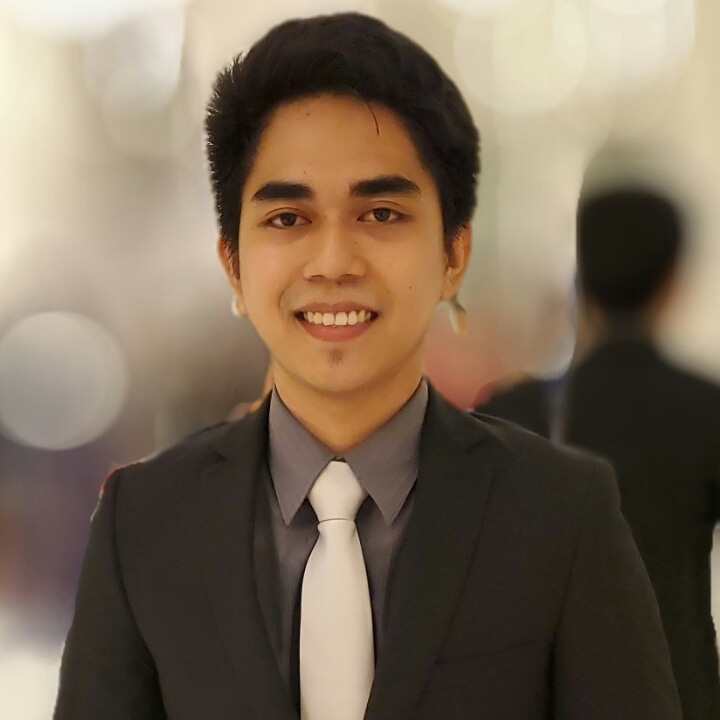
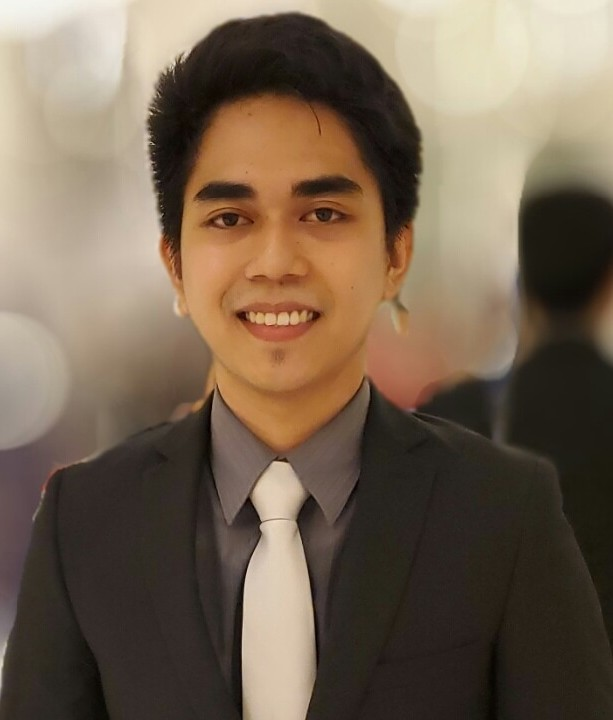
feature - about section, profile picture added

diff --git a/index.html b/index.html
@@ -27,8 +27,9 @@
 
     <!-- Custom CSS -->
     <link rel="stylesheet" type="text/css" href="./styles/common.css">
-    <link rel="stylesheet" type="text/css" href="./styles/home.css">
     <link rel="stylesheet" type="text/css" href="./styles/navigation.css">
+    <link rel="stylesheet" type="text/css" href="./styles/home.css">
+    <link rel="stylesheet" type="text/css" href="./styles/about.css">
 
 </head>
 
@@ -86,9 +87,9 @@
     <section id="home">
         <div class="overlay">
             <div class="container">
-                <div class="row">
-                    <div class="col-sm-12">
-                        <div class="content intro">
+                <div class="row content">
+                    <div class="col-sm-12 align-self-center">
+                        <div class=" intro">
                             <h3>Hello, My name is</h3>
                             <h1 class="pt-md-4">Jonel Dominic Tapang</h1>
                             <p class="tagline pt-md-2">I am a Technology Enthusiast</p>
@@ -96,7 +97,7 @@
                             <div class="custom-btn pt-md-4">
                                 <a href="#about" class="main-btn know-more">Know More</a>
                             </div>
-                            
+
                         </div>
                     </div>
                 </div>
@@ -107,7 +108,20 @@
 
     <!-- About -->
     <section id="about">
-        <h1>About</h1>
+        <div class="container">
+            <div class="row content">
+                <div class="col-md-5 align-self-center">
+                    <div class="profile-picture">
+                        <img class="img-fluid" src="./assets/images/close-up.jpg" alt="Portrait">
+                    </div>
+                </div>
+                <div class="col-md-7 align-self-center">
+                    <div class="profile-info">
+                        <h1>Content</h1>
+                    </div>
+                </div>
+            </div>
+        </div>
     </section>
 
 

diff --git a/styles/home.css b/styles/home.css
@@ -18,11 +18,6 @@
     height: 100%;
 }
 
-#home .content {
-    display: table-cell;
-    vertical-align: middle;
-}
-
 #home .content h3 {
     color: #c3c0c0;
     font-size: 25px;
@@ -31,7 +26,7 @@
     margin: 0;
 }
 
-#home .content.intro p.tagline::before {
+#home .content .intro p.tagline::before {
     content: '';
     position: absolute;
     margin-top: 17px;
@@ -41,7 +36,7 @@
 	background: linear-gradient(to right, #c79864, #cc7f39);
 }
 
-#home .content.intro p.tagline {
+#home .content .intro p.tagline {
     color: #c3c0c0;
     font-size: 23px;
     font-weight: 600;

diff --git a/styles/about.css b/styles/about.css
@@ -1,0 +1,12 @@
+#about .profile-picture {
+    padding: 7px;
+    box-shadow: 0 0 10px rgba(0, 0, 0, .2);
+}
+
+#about .profile-picture img {
+    opacity: .8;
+}
+
+#about .profile-picture img:hover {
+    opacity: 1;
+}
